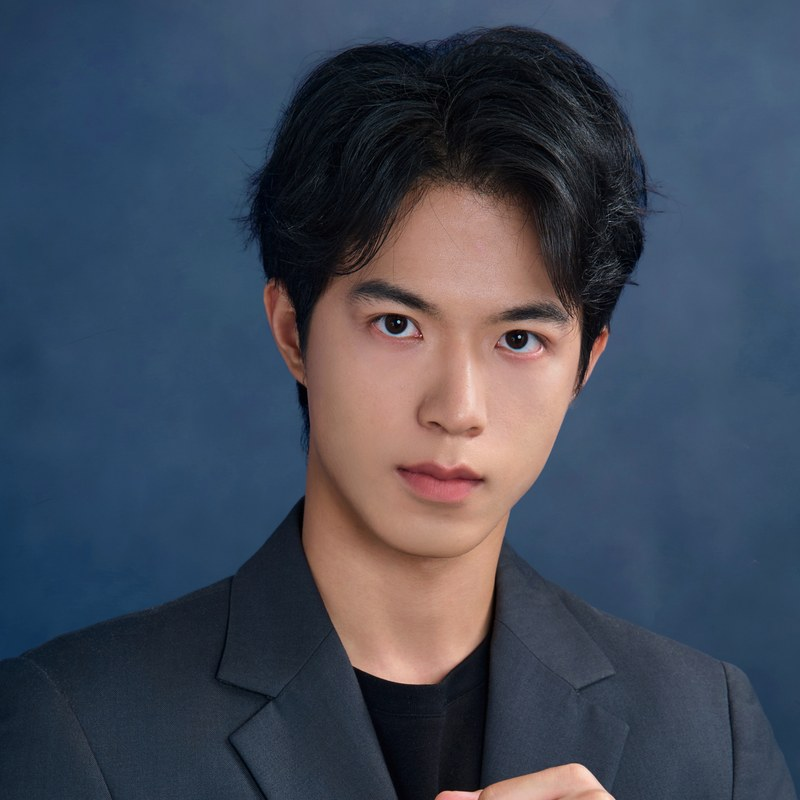
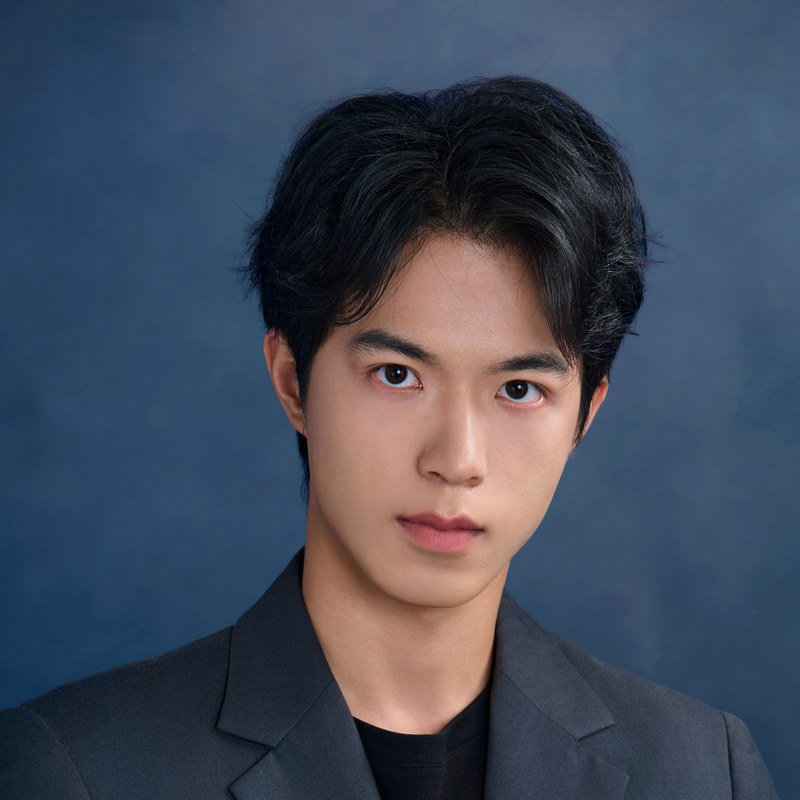
update profile picture

diff --git a/_pages/about.md b/_pages/about.md
@@ -9,7 +9,7 @@ redirect_from:
 
 {% include base_path %}
 
-I am a first-year Ph.D. student in the Department of Statistics at the University of Illinois Urbana-Champaign. I earned two Bachelor of Arts degrees, in Mathematics and Statistics, from the University of California, Berkeley.
+I am a first-year Ph.D. student in the Department of Statistics at the University of Illinois Urbana-Champaign. I earned a B.A. in Mathematics and a B.A. in Statistics from the University of California, Berkeley.
 
 My research interests include machine learning, applied mathematics, and scientific computing. My recent work spans efficient large language models, randomized linear algebra, and photonic computing. At UIUC, I am exploring new research directions and welcome research opportunities and collaborations in these areas.
 
